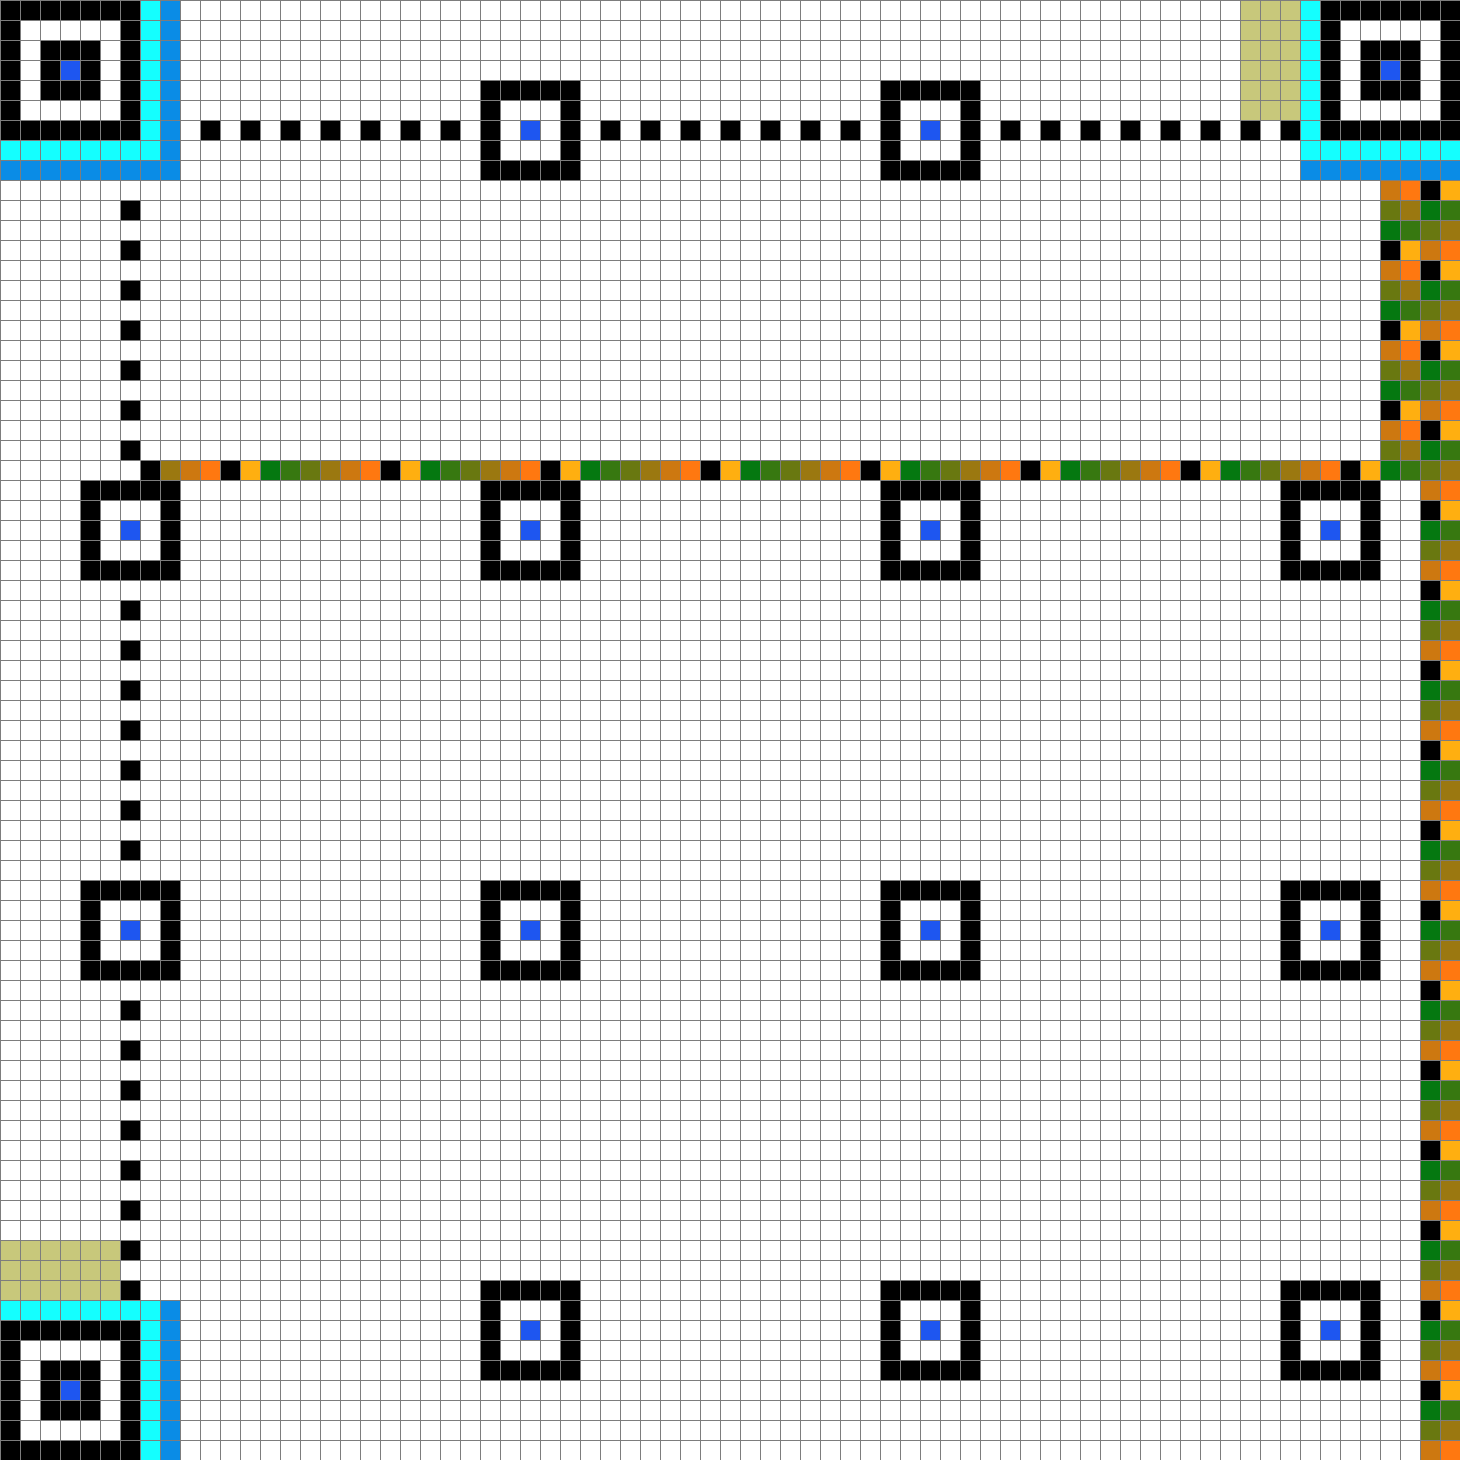
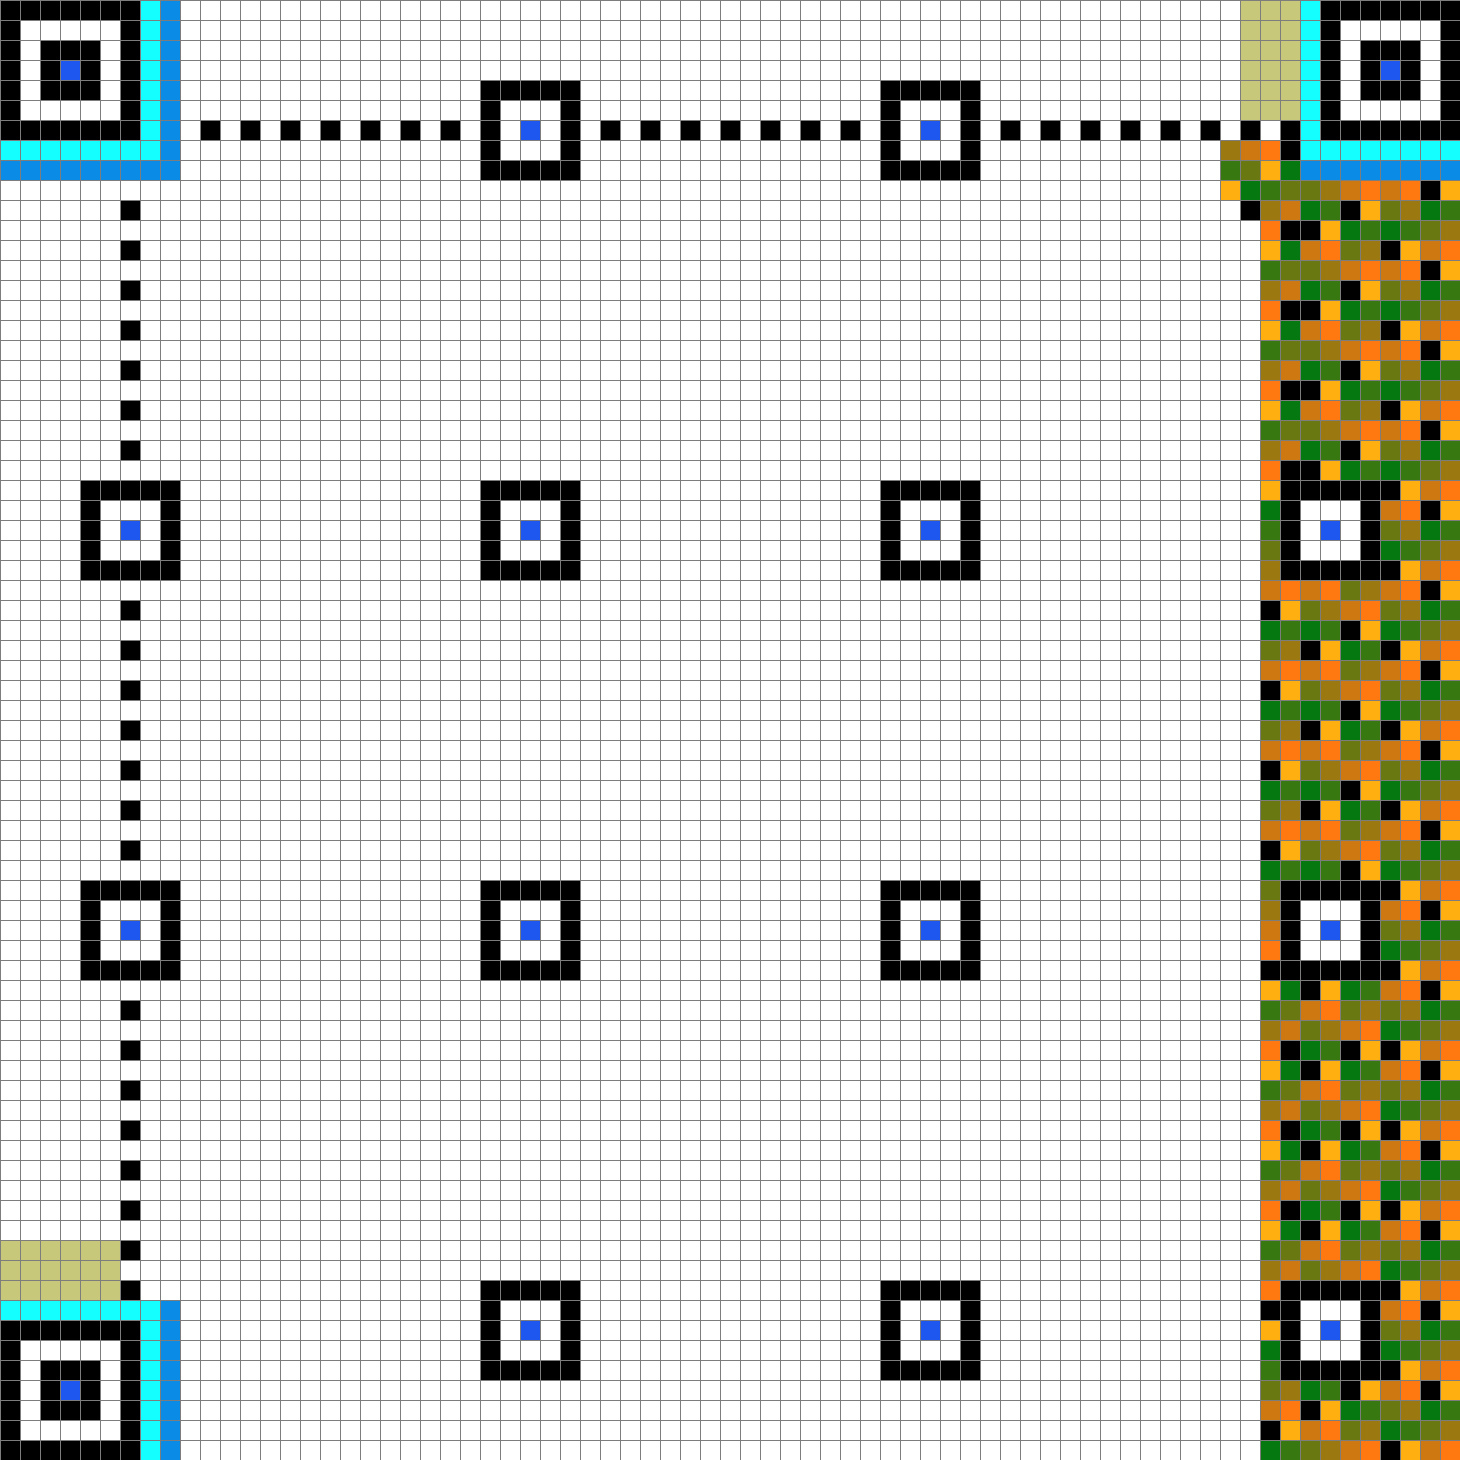
progress

Changed region(s): [[0.0925, 0.0925, 0.9863, 1.0]]

diff --git a/src/qr_encoder/area.rs b/src/qr_encoder/area.rs
@@ -1,7 +1,176 @@
 pub struct Area {
-    pub finder: u8,
+    pub timing: u8,
     pub msg: u8,
     pub algn: u8,
     pub off: u8,
     pub free: u8
+}
+
+#[derive(Debug)]
+enum Direction {
+    Left,
+    Up,
+    UpRight,    
+    UpLeft,
+    Down,
+    DownLeft,
+    DownRight
+}
+
+impl Area {
+    fn get_direction(&self, prev_index: usize, current_index: usize) -> Direction {
+        let same_row: bool = current_index + 1 == prev_index;
+
+        if same_row && self.msg & 0b0001 == 1 || self.free == 0b0110 {
+            Direction::DownRight
+        } else if same_row && self.msg & 0b0010 == 2 || self.free == 0b1001 || self.free == 0b1101 {
+            Direction::UpRight
+        } else if !same_row && prev_index > current_index && self.free & 0b1100 > 0 {
+            Direction::Up
+        } else if !same_row && prev_index < current_index && self.free == 0b0010 {
+            Direction::Down
+        } else {
+            Direction::Left
+        }
+    }
+
+    pub fn near_alignment(&self, prev_index: usize, current_index: usize, size: usize) -> usize {
+        match self.get_direction(prev_index, current_index) {
+            Direction::UpRight => {
+                if self.algn == 0b1001 {
+                    current_index - (size * 6) + 1
+                } else if self.algn & 1 == 1 {
+                    current_index - size
+                } else if self.algn == 0b0110 || self.free == 0b1101 {
+                    current_index - size + 1
+                } else {
+                    current_index - 1
+                }
+            },
+
+            Direction::DownRight => {
+                if self.free == 0b0110 {
+                    current_index + size + 1
+                } else if self.algn == 0b0110 {
+                    current_index + (size * 6) + 1
+                } else if self.algn == 0b1100 {
+                    current_index + size + 1
+                } else if self.algn & 0b0010 == 0b0010 {
+                    current_index + size
+                } else if self.algn & 0b0100 == 0b0100 {
+                    current_index + size + 1
+                } else {
+                    current_index - 1
+                }
+            },
+
+            Direction::Up => {
+                if self.free == 0b1100 {
+                    current_index - size
+                } else if self.free == 0b1101 {
+                    current_index - size + 1
+                } else {
+                    current_index - 1
+                }
+            },
+
+            Direction::Left => {
+                if self.algn == 0b1100 {
+                    current_index + size + 1
+                } else if self.free == 0b1100 {
+                    current_index - size
+                } else {
+                    current_index - 1
+                }
+            },
+            _ => current_index - 1
+        }
+    }
+
+    pub fn print_binary(&self, prev_index: usize, current_index: usize, size: usize) {
+        println!("Direction: {:?}", self.get_direction(prev_index, current_index));
+        println!("Point: {}, {}", current_index / size, current_index % size);
+        println!("Alignment {:b}", self.algn);
+        println!("Offsides  {:b}", self.off);
+        println!("Free      {:b}", self.free);
+        println!("Message   {:b}", self.msg);
+        println!("Timing    {:b}", self.timing);
+    }
+
+    pub fn near_edge(&self, prev_index: usize, current_index: usize, size: usize) -> usize {
+        match self.get_direction(prev_index, current_index) {
+            Direction::DownRight => {
+                if self.off == 0b0110 {
+                    current_index - 1
+                } else {
+                    current_index + size + 1
+                }
+            },
+            Direction::UpRight => {
+                if self.off == 0b1001 {
+                    current_index - 1
+                } else {
+                    current_index - size + 1
+                }
+            },
+            Direction::Left => {
+                if self.free & 1 == 1 {
+                    current_index - size + 1
+                } else if self.free == 0b1110 {
+                    current_index + size + 1
+                } else {
+                    current_index - 1
+                }
+            },
+            _ => current_index - 1
+        }
+    }
+
+    fn near_timing(&self, prev_index: usize, current_index: usize, size: usize) -> usize {
+        match self.get_direction(prev_index, current_index) {
+            Direction::DownRight => {
+                if self.off == 0b0110 {
+                    current_index - 1
+                } else {
+                    current_index + size + 1
+                }
+            },
+            Direction::UpRight => {
+                if self.free & 0b0011 == 0 {
+                    current_index - 1
+                } else if self.off == 0b1001 {
+                    current_index - 1                    
+                } else {
+                    current_index - size + 1
+                }
+            },
+            Direction::Left => {
+                if self.free & 1 == 1 {
+                    current_index - size + 1
+                } else if self.free == 0b1110 {
+                    current_index + size + 1
+                } else {
+                    current_index - 1
+                }
+            },
+            _ => current_index - 1
+        }
+    }
+
+    pub fn adjust_position(&self, prev_index: usize, current_index: usize, size: usize) -> usize {
+        self.print_binary(prev_index, current_index, size);
+        if self.timing > 0 {
+            self.near_timing(prev_index, current_index, size)
+        } else if self.off > 0 {
+            self.near_edge(prev_index, current_index, size)
+        } else if self.algn > 0 {
+            self.near_alignment(prev_index, current_index, size)
+        } else if self.msg == 0b0010 {
+            current_index - size + 1
+        } else if self.msg == 0b0001 {
+            current_index + size + 1
+        } else {
+            current_index - 1
+        }
+    }
 }

diff --git a/src/qr_encoder/qr.rs b/src/qr_encoder/qr.rs
@@ -404,7 +404,7 @@ impl QR {
                 msg: 0,
                 off: 0,
                 algn: 0,
-                finder: 0
+                timing: 0
             };
             let mut corner_idx = 0;
 
@@ -467,9 +467,9 @@ impl QR {
                         area.free ^= 1 << corner_idx;
                     },
 
-                    CellType::Finder => {
+                    CellType::Timing => {
                         // set bits but not yet
-                        area.finder ^= 1 << corner_idx;
+                        area.timing ^= 1 << corner_idx;
                     },
 
                     CellType::Message => {
@@ -492,42 +492,42 @@ impl QR {
             let set_bits = bit_count(area.free);
             let former_position = prev_index;
             prev_index = current_index;
-
+            current_index = area.adjust_position(former_position, current_index, self.config.size);
             // handle offsides cells
-            if area.off > 0 {
-                if area.off == 0b1001 && area.free == 0 {
-                    current_index -= 1;
-                } else if area.off == 0b1001 && set_bits == 1 {
-                    current_index -= 1;
-                } else if area.off == 0b0001 && set_bits >= 2 {
-                    current_index += row_length + 2;
-                } else if area.free ^ area.off == 0b1111 && lead == 0b11 && set_bits == 1 {
-                    current_index -= 1;
-                } else if area.free ^ area.off == 15 && area.free == 0b1001 {
-                    current_index -= row_length;
-                } else if area.free ^ area.off == 15 && area.free == 0b0110 {
-                    current_index += row_length + 2;
-                } else if area.free == 0 && area.msg ^ area.off == 0b1111 {
-                    current_index -= 1;
-                } else if area.msg == 0b0100 || area.msg == 0b1000 || area.msg == 0b0010 {
-                    current_index -= 1;
-                } else if area.free == 0b0110 && area.off == 0b1001 {
-                    current_index += row_length;
-                } else if area.free == 0b1000 {
-                    current_index -= 1;
-                }
-            } else if area.algn > 0 {
-                current_index = self.by_alignment(area, former_position, current_index);
-            } else {
-                // free of edge concerns
-                if area.msg == 0b0010 {
-                    current_index -= row_length;
-                } else if area.msg == 0b0001 {
-                    current_index += row_length + 2;
-                } else {
-                    current_index -= 1;
-                }
-            }
+            // if area.off > 0 {
+            //     if area.off == 0b1001 && area.free == 0 {
+            //         current_index -= 1;
+            //     } else if area.off == 0b1001 && set_bits == 1 {
+            //         current_index -= 1;
+            //     } else if area.off == 0b0001 && set_bits >= 2 {
+            //         current_index += row_length + 2;
+            //     } else if area.free ^ area.off == 0b1111 && lead == 0b11 && set_bits == 1 {
+            //         current_index -= 1;
+            //     } else if area.free ^ area.off == 15 && area.free == 0b1001 {
+            //         current_index -= row_length;
+            //     } else if area.free ^ area.off == 15 && area.free == 0b0110 {
+            //         current_index += row_length + 2;
+            //     } else if area.free == 0 && area.msg ^ area.off == 0b1111 {
+            //         current_index -= 1;
+            //     } else if area.msg == 0b0100 || area.msg == 0b1000 || area.msg == 0b0010 {
+            //         current_index -= 1;
+            //     } else if area.free == 0b0110 && area.off == 0b1001 {
+            //         current_index += row_length;
+            //     } else if area.free == 0b1000 {
+            //         current_index -= 1;
+            //     }
+            // } else if area.algn > 0 {
+            //     current_index = area.near_alignment(former_position, current_index, self.config.size);
+            // } else {
+            //     // free of edge concerns
+            //     if area.msg == 0b0010 {
+            //         current_index -= row_length;
+            //     } else if area.msg == 0b0001 {
+            //         current_index += row_length + 2;
+            //     } else {
+            //         current_index -= 1;
+            //     }
+            // }
 
             /*
             trying to get algn = 1001 (top)

diff --git a/src/main.rs b/src/main.rs
@@ -43,7 +43,8 @@ fn main() {
     };
     qr.setup();
 
-    let sample = "\'It Was the Best of times, it was the Blurst of times?? You stupid monkey!\'".to_string();
+    let sample = "\'It Was the Best of times, it was the Blurst of times?? You stupid monke".to_string();
+    // let sample = "abcdefhijklmnopqrstuvwxyzabcdefghabcdefhijabcdefhijabcdefhij".to_string();
     let mut position: (usize, usize) = ((qr.config.size * qr.config.size) - 1, 0);
     let mut previous_position = position;
     for s in sample.into_bytes().into_iter() {
